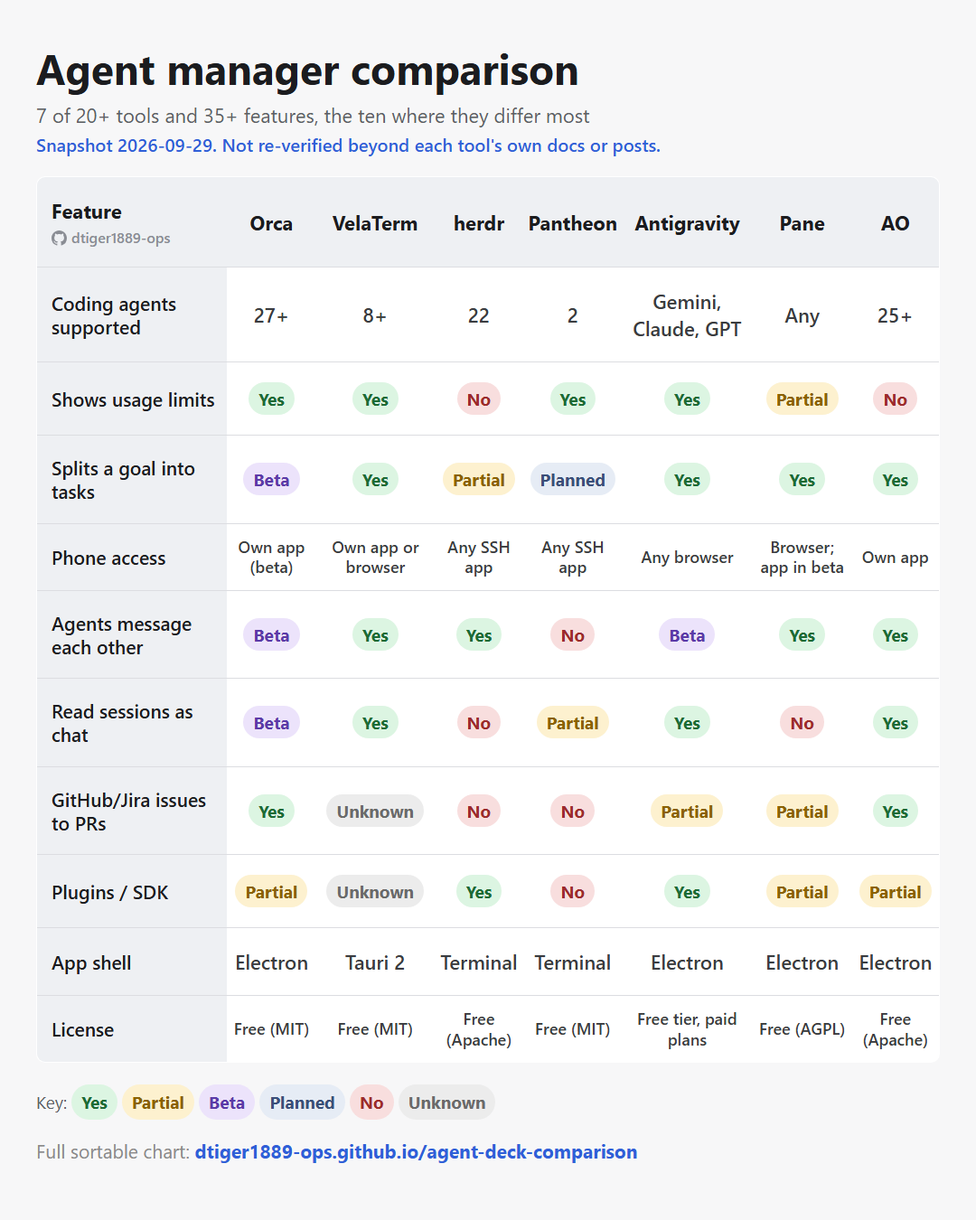
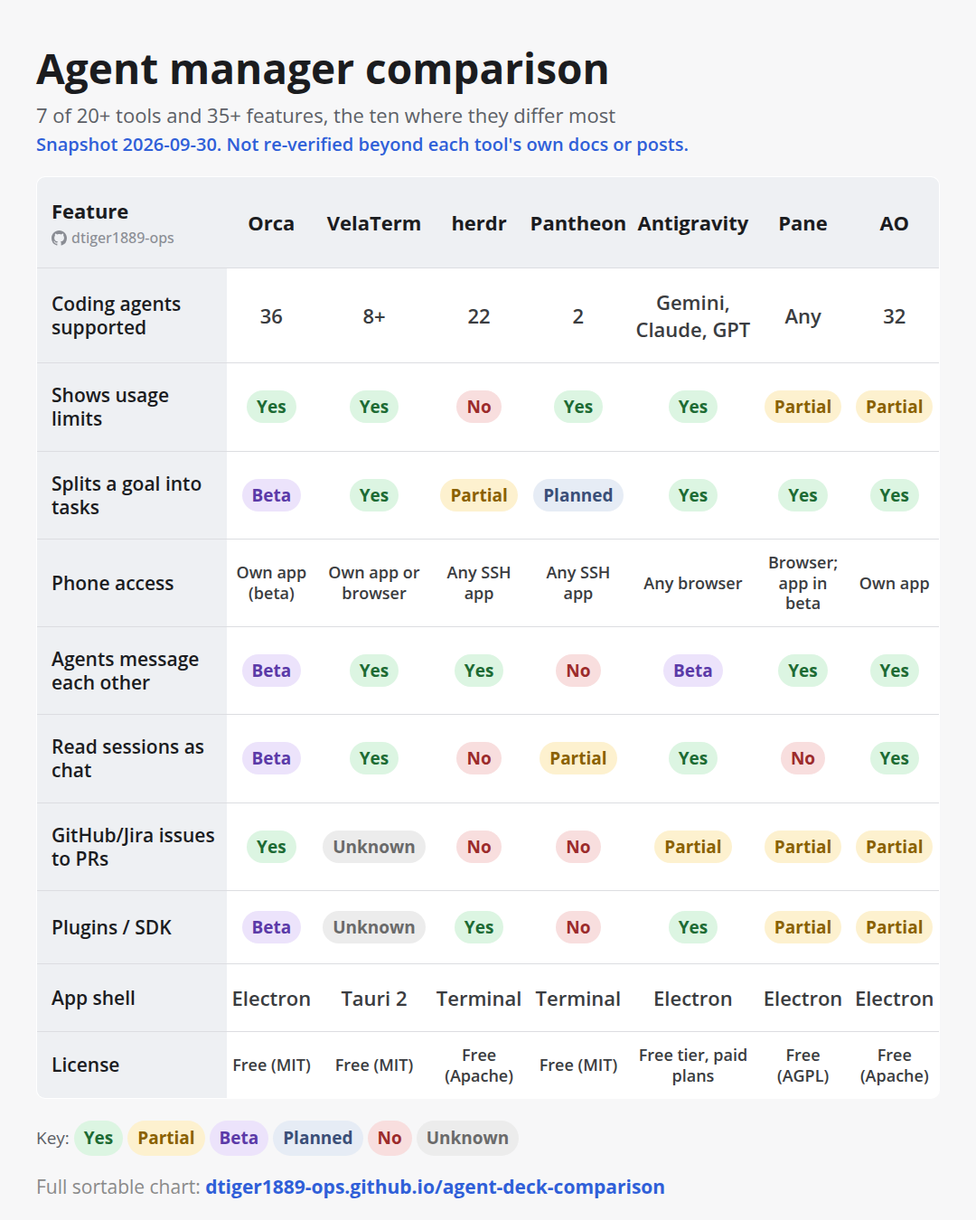
Re-render the share images and page screenshot from the 2026-09-30 data
Both 1080x1350 images and the link-preview screenshot now match the refreshed
cells: agent counts (Orca 36, Paseo 41, Kepler 9 plus any ACP agent, AO 32),
Kepler's Electron shell, and the marks that moved (Kepler shows usage limits,
AO's usage and issue-to-PR rows are Partial, several No cells are now Not
documented). Image 1 keeps its short Not doc. badge so seven columns fit.

diff --git a/assets/linkedin.html b/assets/linkedin.html
@@ -14,8 +14,8 @@
   table { border-collapse: collapse; width: 100%; background: #fff; border: 1px solid #dcdde1; border-radius: 10px; overflow: hidden; }
   th, td { padding: 22px 4px; font-size: 22px; text-align: center; border-bottom: 1px solid #dcdde1; }
   th { background: #eef0f3; font-size: 22px; }
-  tbody th { text-align: left; font-size: 21px; font-weight: 600; white-space: nowrap; }
-  td:first-child, th:first-child { text-align: left; padding-left: 16px; width: 260px; }
+  tbody th { text-align: left; font-size: 21px; font-weight: 600; line-height: 1.25; }
+  td:first-child, th:first-child { text-align: left; padding-left: 16px; width: 210px; }
   .b { white-space: nowrap; display: inline-block; padding: 5px 11px; border-radius: 999px; font-size: 19px; font-weight: 700; }
   td.plain { font-size: 22px; color: #3a3c40; font-weight: 600; }
   td.plain.small { font-size: 18px; line-height: 1.25; padding: 14px 4px; }
@@ -25,13 +25,13 @@
   .footer { margin-top: 18px; font-size: 21px; line-height: 1.5; color: #8a8a8a; }
 </style></head>
 <body>
-  <h1>Agent-manager comparison</h1>
+  <h1>Agent manager comparison</h1>
   <p class="sub">Seven AI coding-agent managers, ten features that matter most</p>
-  <p class="snap">Snapshot 2026-09-28 &middot; not re-verified beyond each tool's own docs/posts</p>
+  <p class="snap">Snapshot 2026-09-30. Not re-verified beyond each tool's own docs or posts.</p>
   <table>
     <thead><tr><th>Feature<span class="wm"><svg class="gh" viewBox="0 0 16 16" width="17" height="17" aria-hidden="true"><path fill="currentColor" d="M8 0c4.42 0 8 3.58 8 8a8.013 8.013 0 0 1-5.45 7.59c-.4.08-.55-.17-.55-.38 0-.27.01-1.13.01-2.2 0-.75-.25-1.23-.54-1.48 1.78-.2 3.65-.88 3.65-3.95 0-.88-.31-1.59-.82-2.15.08-.2.36-1.02-.08-2.12 0 0-.67-.22-2.2.82-.64-.18-1.32-.27-2-.27-.68 0-1.36.09-2 .27-1.53-1.03-2.2-.82-2.2-.82-.44 1.1-.16 1.92-.08 2.12-.51.56-.82 1.28-.82 2.15 0 3.06 1.86 3.75 3.64 3.95-.23.2-.44.55-.51 1.07-.46.21-1.61.55-2.33-.66-.15-.24-.6-.83-1.23-.82-.67.01-.27.38.01.53.34.19.73.9.82 1.13.16.45.68 1.31 2.69.94 0 .67.01 1.3.01 1.49 0 .21-.15.45-.55.37A7.995 7.995 0 0 1 0 8c0-4.42 3.58-8 8-8Z"/></svg>dtiger1889-ops</span></th><th>Orca</th><th>VelaTerm</th><th>herdr</th><th>Pantheon</th><th>Paseo</th><th>Kepler</th><th>AO</th></tr></thead>
-    <tbody><tr><th>Coding agents supported</th><td class="plain">27+</td><td class="plain">8+</td><td class="plain">22</td><td class="plain">2</td><td class="plain">~39</td><td class="plain">Any (claimed)</td><td class="plain">25+</td></tr><tr><th>App shell</th><td class="plain">Electron</td><td class="plain">Tauri 2</td><td class="plain">Terminal UI</td><td class="plain">Terminal UI</td><td class="plain">Electron</td><td class="plain">Unknown</td><td class="plain">Electron</td></tr><tr><th>Shows usage limits</th><td><span class="b" style="background:#dcf5e2;color:#1d6b34">Yes</span></td><td><span class="b" style="background:#dcf5e2;color:#1d6b34">Yes</span></td><td><span class="b" style="background:#f8dede;color:#9c2b2b">No</span></td><td><span class="b" style="background:#dcf5e2;color:#1d6b34">Yes</span></td><td><span class="b" style="background:#fdf1cf;color:#8a6100">Partial</span></td><td><span class="b" style="background:#f8dede;color:#9c2b2b">No</span></td><td><span class="b" style="background:#f8dede;color:#9c2b2b">No</span></td></tr><tr><th>Predicts limit hits</th><td><span class="b" style="background:#f8dede;color:#9c2b2b">No</span></td><td><span class="b" style="background:#ffffff;color:#6a6a6a;border:2px dashed #9a9a9a;padding:3px 7px">Not documented</span></td><td><span class="b" style="background:#ffffff;color:#6a6a6a;border:2px dashed #9a9a9a;padding:3px 7px">Not documented</span></td><td><span class="b" style="background:#fdf1cf;color:#8a6100">Partial</span></td><td><span class="b" style="background:#f8dede;color:#9c2b2b">No</span></td><td><span class="b" style="background:#f8dede;color:#9c2b2b">No</span></td><td><span class="b" style="background:#f8dede;color:#9c2b2b">No</span></td></tr><tr><th>Pause/resume at limits</th><td><span class="b" style="background:#f8dede;color:#9c2b2b">No</span></td><td><span class="b" style="background:#ffffff;color:#6a6a6a;border:2px dashed #9a9a9a;padding:3px 7px">Not documented</span></td><td><span class="b" style="background:#ffffff;color:#6a6a6a;border:2px dashed #9a9a9a;padding:3px 7px">Not documented</span></td><td><span class="b" style="background:#fdf1cf;color:#8a6100">Partial</span></td><td><span class="b" style="background:#f8dede;color:#9c2b2b">No</span></td><td><span class="b" style="background:#f8dede;color:#9c2b2b">No</span></td><td><span class="b" style="background:#f8dede;color:#9c2b2b">No</span></td></tr><tr><th>Tasks from notes vault</th><td><span class="b" style="background:#f8dede;color:#9c2b2b">No</span></td><td><span class="b" style="background:#f8dede;color:#9c2b2b">No</span></td><td><span class="b" style="background:#f8dede;color:#9c2b2b">No</span></td><td><span class="b" style="background:#dcf5e2;color:#1d6b34">Yes</span></td><td><span class="b" style="background:#f8dede;color:#9c2b2b">No</span></td><td><span class="b" style="background:#f8dede;color:#9c2b2b">No</span></td><td><span class="b" style="background:#f8dede;color:#9c2b2b">No</span></td></tr><tr><th>Manages worktrees</th><td><span class="b" style="background:#dcf5e2;color:#1d6b34">Yes</span></td><td><span class="b" style="background:#dcf5e2;color:#1d6b34">Yes</span></td><td><span class="b" style="background:#dcf5e2;color:#1d6b34">Yes</span></td><td><span class="b" style="background:#f8dede;color:#9c2b2b">No</span></td><td><span class="b" style="background:#dcf5e2;color:#1d6b34">Yes</span></td><td><span class="b" style="background:#dcf5e2;color:#1d6b34">Yes</span></td><td><span class="b" style="background:#dcf5e2;color:#1d6b34">Yes</span></td></tr><tr><th>Splits the work</th><td><span class="b" style="background:#ece3fb;color:#5b3aa8">Beta</span></td><td><span class="b" style="background:#dcf5e2;color:#1d6b34">Yes</span></td><td><span class="b" style="background:#fdf1cf;color:#8a6100">Partial</span></td><td><span class="b" style="background:#e6ecf5;color:#3a4f78">Planned</span></td><td><span class="b" style="background:#dcf5e2;color:#1d6b34">Yes</span></td><td><span class="b" style="background:#f2f2f2;color:#8a8a8a">N/A</span></td><td><span class="b" style="background:#dcf5e2;color:#1d6b34">Yes</span></td></tr><tr><th>Phone app</th><td><span class="b" style="background:#ece3fb;color:#5b3aa8">Beta</span></td><td><span class="b" style="background:#dcf5e2;color:#1d6b34">Yes</span></td><td><span class="b" style="background:#f8dede;color:#9c2b2b">No</span></td><td><span class="b" style="background:#f8dede;color:#9c2b2b">No</span></td><td><span class="b" style="background:#dcf5e2;color:#1d6b34">Yes</span></td><td><span class="b" style="background:#fdf1cf;color:#8a6100">Partial</span></td><td><span class="b" style="background:#dcf5e2;color:#1d6b34">Yes</span></td></tr><tr><th>Runs in your terminal</th><td><span class="b" style="background:#f8dede;color:#9c2b2b">No</span></td><td><span class="b" style="background:#f8dede;color:#9c2b2b">No</span></td><td><span class="b" style="background:#dcf5e2;color:#1d6b34">Yes</span></td><td><span class="b" style="background:#dcf5e2;color:#1d6b34">Yes</span></td><td><span class="b" style="background:#f8dede;color:#9c2b2b">No</span></td><td><span class="b" style="background:#f8dede;color:#9c2b2b">No</span></td><td><span class="b" style="background:#f8dede;color:#9c2b2b">No</span></td></tr></tbody>
+    <tbody><tr><th>Coding agents supported</th><td class="plain">36</td><td class="plain">8+</td><td class="plain">22</td><td class="plain">2</td><td class="plain">41</td><td class="plain">9 + any ACP</td><td class="plain">32</td></tr><tr><th>App shell</th><td class="plain">Electron</td><td class="plain">Tauri 2</td><td class="plain">Terminal</td><td class="plain">Terminal</td><td class="plain">Electron</td><td class="plain">Electron</td><td class="plain">Electron</td></tr><tr><th>Shows usage limits</th><td><span class="b" style="background:#dcf5e2;color:#1d6b34">Yes</span></td><td><span class="b" style="background:#dcf5e2;color:#1d6b34">Yes</span></td><td><span class="b" style="background:#f8dede;color:#9c2b2b">No</span></td><td><span class="b" style="background:#dcf5e2;color:#1d6b34">Yes</span></td><td><span class="b" style="background:#dcf5e2;color:#1d6b34">Yes</span></td><td><span class="b" style="background:#dcf5e2;color:#1d6b34">Yes</span></td><td><span class="b" style="background:#fdf1cf;color:#8a6100">Partial</span></td></tr><tr><th>Predicts limit hits</th><td><span class="b" style="background:#ffffff;color:#6a6a6a;border:2px dashed #9a9a9a;padding:3px 7px">Not doc.</span></td><td><span class="b" style="background:#ffffff;color:#6a6a6a;border:2px dashed #9a9a9a;padding:3px 7px">Not doc.</span></td><td><span class="b" style="background:#ffffff;color:#6a6a6a;border:2px dashed #9a9a9a;padding:3px 7px">Not doc.</span></td><td><span class="b" style="background:#fdf1cf;color:#8a6100">Partial</span></td><td><span class="b" style="background:#ffffff;color:#6a6a6a;border:2px dashed #9a9a9a;padding:3px 7px">Not doc.</span></td><td><span class="b" style="background:#ffffff;color:#6a6a6a;border:2px dashed #9a9a9a;padding:3px 7px">Not doc.</span></td><td><span class="b" style="background:#ffffff;color:#6a6a6a;border:2px dashed #9a9a9a;padding:3px 7px">Not doc.</span></td></tr><tr><th>Pause/resume at limits</th><td><span class="b" style="background:#ffffff;color:#6a6a6a;border:2px dashed #9a9a9a;padding:3px 7px">Not doc.</span></td><td><span class="b" style="background:#ffffff;color:#6a6a6a;border:2px dashed #9a9a9a;padding:3px 7px">Not doc.</span></td><td><span class="b" style="background:#ffffff;color:#6a6a6a;border:2px dashed #9a9a9a;padding:3px 7px">Not doc.</span></td><td><span class="b" style="background:#fdf1cf;color:#8a6100">Partial</span></td><td><span class="b" style="background:#ffffff;color:#6a6a6a;border:2px dashed #9a9a9a;padding:3px 7px">Not doc.</span></td><td><span class="b" style="background:#ffffff;color:#6a6a6a;border:2px dashed #9a9a9a;padding:3px 7px">Not doc.</span></td><td><span class="b" style="background:#ffffff;color:#6a6a6a;border:2px dashed #9a9a9a;padding:3px 7px">Not doc.</span></td></tr><tr><th>Tasks from notes vault</th><td><span class="b" style="background:#f8dede;color:#9c2b2b">No</span></td><td><span class="b" style="background:#f8dede;color:#9c2b2b">No</span></td><td><span class="b" style="background:#f8dede;color:#9c2b2b">No</span></td><td><span class="b" style="background:#dcf5e2;color:#1d6b34">Yes</span></td><td><span class="b" style="background:#ffffff;color:#6a6a6a;border:2px dashed #9a9a9a;padding:3px 7px">Not doc.</span></td><td><span class="b" style="background:#ffffff;color:#6a6a6a;border:2px dashed #9a9a9a;padding:3px 7px">Not doc.</span></td><td><span class="b" style="background:#ffffff;color:#6a6a6a;border:2px dashed #9a9a9a;padding:3px 7px">Not doc.</span></td></tr><tr><th>Manages worktrees</th><td><span class="b" style="background:#dcf5e2;color:#1d6b34">Yes</span></td><td><span class="b" style="background:#dcf5e2;color:#1d6b34">Yes</span></td><td><span class="b" style="background:#dcf5e2;color:#1d6b34">Yes</span></td><td><span class="b" style="background:#f8dede;color:#9c2b2b">No</span></td><td><span class="b" style="background:#dcf5e2;color:#1d6b34">Yes</span></td><td><span class="b" style="background:#dcf5e2;color:#1d6b34">Yes</span></td><td><span class="b" style="background:#dcf5e2;color:#1d6b34">Yes</span></td></tr><tr><th>Splits the work</th><td><span class="b" style="background:#ece3fb;color:#5b3aa8">Beta</span></td><td><span class="b" style="background:#dcf5e2;color:#1d6b34">Yes</span></td><td><span class="b" style="background:#fdf1cf;color:#8a6100">Partial</span></td><td><span class="b" style="background:#e6ecf5;color:#3a4f78">Planned</span></td><td><span class="b" style="background:#dcf5e2;color:#1d6b34">Yes</span></td><td><span class="b" style="background:#fdf1cf;color:#8a6100">Partial</span></td><td><span class="b" style="background:#dcf5e2;color:#1d6b34">Yes</span></td></tr><tr><th>Phone app</th><td><span class="b" style="background:#ece3fb;color:#5b3aa8">Beta</span></td><td><span class="b" style="background:#dcf5e2;color:#1d6b34">Yes</span></td><td><span class="b" style="background:#f8dede;color:#9c2b2b">No</span></td><td><span class="b" style="background:#f8dede;color:#9c2b2b">No</span></td><td><span class="b" style="background:#dcf5e2;color:#1d6b34">Yes</span></td><td><span class="b" style="background:#f8dede;color:#9c2b2b">No</span></td><td><span class="b" style="background:#dcf5e2;color:#1d6b34">Yes</span></td></tr><tr><th>Runs in your terminal</th><td><span class="b" style="background:#f8dede;color:#9c2b2b">No</span></td><td><span class="b" style="background:#f8dede;color:#9c2b2b">No</span></td><td><span class="b" style="background:#dcf5e2;color:#1d6b34">Yes</span></td><td><span class="b" style="background:#dcf5e2;color:#1d6b34">Yes</span></td><td><span class="b" style="background:#f8dede;color:#9c2b2b">No</span></td><td><span class="b" style="background:#f8dede;color:#9c2b2b">No</span></td><td><span class="b" style="background:#f8dede;color:#9c2b2b">No</span></td></tr></tbody>
   </table>
-  <p class="key">Key: <span class="b" style="background:#dcf5e2;color:#1d6b34">Yes</span> <span class="b" style="background:#fdf1cf;color:#8a6100">Partial</span> <span class="b" style="background:#ece3fb;color:#5b3aa8">Beta</span> <span class="b" style="background:#e6ecf5;color:#3a4f78">Planned</span> <span class="b" style="background:#f8dede;color:#9c2b2b">No</span> <span class="b" style="background:#ffffff;color:#6a6a6a;border:2px dashed #9a9a9a;padding:3px 7px">Not documented</span> <span class="b" style="background:#ececec;color:#6a6a6a">Unknown</span></p>
+  <p class="key">Key: <span class="b" style="background:#dcf5e2;color:#1d6b34">Yes</span> <span class="b" style="background:#fdf1cf;color:#8a6100">Partial</span> <span class="b" style="background:#ece3fb;color:#5b3aa8">Beta</span> <span class="b" style="background:#e6ecf5;color:#3a4f78">Planned</span> <span class="b" style="background:#f8dede;color:#9c2b2b">No</span> <span class="b" style="background:#ffffff;color:#6a6a6a;border:2px dashed #9a9a9a;padding:3px 7px">Not doc.</span></p>
   <p class="footer">Full sortable chart: <b style="color:#2f5fd8">dtiger1889-ops.github.io/agent-deck-comparison</b></p>
 </body></html>

diff --git a/assets/share-2.html b/assets/share-2.html
@@ -27,10 +27,10 @@
 <body>
   <h1>Agent manager comparison</h1>
   <p class="sub">7 of 20+ tools and 35+ features, the ten where they differ most</p>
-  <p class="snap">Snapshot 2026-09-29. Not re-verified beyond each tool's own docs or posts.</p>
+  <p class="snap">Snapshot 2026-09-30. Not re-verified beyond each tool's own docs or posts.</p>
   <table>
     <thead><tr><th>Feature<span class="wm"><svg class="gh" viewBox="0 0 16 16" width="17" height="17" aria-hidden="true"><path fill="currentColor" d="M8 0c4.42 0 8 3.58 8 8a8.013 8.013 0 0 1-5.45 7.59c-.4.08-.55-.17-.55-.38 0-.27.01-1.13.01-2.2 0-.75-.25-1.23-.54-1.48 1.78-.2 3.65-.88 3.65-3.95 0-.88-.31-1.59-.82-2.15.08-.2.36-1.02-.08-2.12 0 0-.67-.22-2.2.82-.64-.18-1.32-.27-2-.27-.68 0-1.36.09-2 .27-1.53-1.03-2.2-.82-2.2-.82-.44 1.1-.16 1.92-.08 2.12-.51.56-.82 1.28-.82 2.15 0 3.06 1.86 3.75 3.64 3.95-.23.2-.44.55-.51 1.07-.46.21-1.61.55-2.33-.66-.15-.24-.6-.83-1.23-.82-.67.01-.27.38.01.53.34.19.73.9.82 1.13.16.45.68 1.31 2.69.94 0 .67.01 1.3.01 1.49 0 .21-.15.45-.55.37A7.995 7.995 0 0 1 0 8c0-4.42 3.58-8 8-8Z"/></svg>dtiger1889-ops</span></th><th>Orca</th><th>VelaTerm</th><th>herdr</th><th>Pantheon</th><th>Antigravity</th><th>Pane</th><th>AO</th></tr></thead>
-    <tbody><tr><th>Coding agents supported</th><td class="plain">27+</td><td class="plain">8+</td><td class="plain">22</td><td class="plain">2</td><td class="plain">Gemini, Claude, GPT</td><td class="plain">Any</td><td class="plain">25+</td></tr><tr><th>Shows usage limits</th><td><span class="b" style="background:#dcf5e2;color:#1d6b34">Yes</span></td><td><span class="b" style="background:#dcf5e2;color:#1d6b34">Yes</span></td><td><span class="b" style="background:#f8dede;color:#9c2b2b">No</span></td><td><span class="b" style="background:#dcf5e2;color:#1d6b34">Yes</span></td><td><span class="b" style="background:#dcf5e2;color:#1d6b34">Yes</span></td><td><span class="b" style="background:#fdf1cf;color:#8a6100">Partial</span></td><td><span class="b" style="background:#f8dede;color:#9c2b2b">No</span></td></tr><tr><th>Splits a goal into tasks</th><td><span class="b" style="background:#ece3fb;color:#5b3aa8">Beta</span></td><td><span class="b" style="background:#dcf5e2;color:#1d6b34">Yes</span></td><td><span class="b" style="background:#fdf1cf;color:#8a6100">Partial</span></td><td><span class="b" style="background:#e6ecf5;color:#3a4f78">Planned</span></td><td><span class="b" style="background:#dcf5e2;color:#1d6b34">Yes</span></td><td><span class="b" style="background:#dcf5e2;color:#1d6b34">Yes</span></td><td><span class="b" style="background:#dcf5e2;color:#1d6b34">Yes</span></td></tr><tr><th>Phone access</th><td class="plain small">Own app (beta)</td><td class="plain small">Own app or browser</td><td class="plain small">Any SSH app</td><td class="plain small">Any SSH app</td><td class="plain small">Any browser</td><td class="plain small">Browser; app in beta</td><td class="plain small">Own app</td></tr><tr><th>Agents message each other</th><td><span class="b" style="background:#ece3fb;color:#5b3aa8">Beta</span></td><td><span class="b" style="background:#dcf5e2;color:#1d6b34">Yes</span></td><td><span class="b" style="background:#dcf5e2;color:#1d6b34">Yes</span></td><td><span class="b" style="background:#f8dede;color:#9c2b2b">No</span></td><td><span class="b" style="background:#ece3fb;color:#5b3aa8">Beta</span></td><td><span class="b" style="background:#dcf5e2;color:#1d6b34">Yes</span></td><td><span class="b" style="background:#dcf5e2;color:#1d6b34">Yes</span></td></tr><tr><th>Read sessions as chat</th><td><span class="b" style="background:#ece3fb;color:#5b3aa8">Beta</span></td><td><span class="b" style="background:#dcf5e2;color:#1d6b34">Yes</span></td><td><span class="b" style="background:#f8dede;color:#9c2b2b">No</span></td><td><span class="b" style="background:#fdf1cf;color:#8a6100">Partial</span></td><td><span class="b" style="background:#dcf5e2;color:#1d6b34">Yes</span></td><td><span class="b" style="background:#f8dede;color:#9c2b2b">No</span></td><td><span class="b" style="background:#dcf5e2;color:#1d6b34">Yes</span></td></tr><tr><th>GitHub/Jira issues to PRs</th><td><span class="b" style="background:#dcf5e2;color:#1d6b34">Yes</span></td><td><span class="b" style="background:#ececec;color:#6a6a6a">Unknown</span></td><td><span class="b" style="background:#f8dede;color:#9c2b2b">No</span></td><td><span class="b" style="background:#f8dede;color:#9c2b2b">No</span></td><td><span class="b" style="background:#fdf1cf;color:#8a6100">Partial</span></td><td><span class="b" style="background:#fdf1cf;color:#8a6100">Partial</span></td><td><span class="b" style="background:#dcf5e2;color:#1d6b34">Yes</span></td></tr><tr><th>Plugins / SDK</th><td><span class="b" style="background:#fdf1cf;color:#8a6100">Partial</span></td><td><span class="b" style="background:#ececec;color:#6a6a6a">Unknown</span></td><td><span class="b" style="background:#dcf5e2;color:#1d6b34">Yes</span></td><td><span class="b" style="background:#f8dede;color:#9c2b2b">No</span></td><td><span class="b" style="background:#dcf5e2;color:#1d6b34">Yes</span></td><td><span class="b" style="background:#fdf1cf;color:#8a6100">Partial</span></td><td><span class="b" style="background:#fdf1cf;color:#8a6100">Partial</span></td></tr><tr><th>App shell</th><td class="plain">Electron</td><td class="plain">Tauri 2</td><td class="plain">Terminal</td><td class="plain">Terminal</td><td class="plain">Electron</td><td class="plain">Electron</td><td class="plain">Electron</td></tr><tr><th>License</th><td class="plain small">Free (MIT)</td><td class="plain small">Free (MIT)</td><td class="plain small">Free (Apache)</td><td class="plain small">Free (MIT)</td><td class="plain small">Free tier, paid plans</td><td class="plain small">Free (AGPL)</td><td class="plain small">Free (Apache)</td></tr></tbody>
+    <tbody><tr><th>Coding agents supported</th><td class="plain">36</td><td class="plain">8+</td><td class="plain">22</td><td class="plain">2</td><td class="plain">Gemini, Claude, GPT</td><td class="plain">Any</td><td class="plain">32</td></tr><tr><th>Shows usage limits</th><td><span class="b" style="background:#dcf5e2;color:#1d6b34">Yes</span></td><td><span class="b" style="background:#dcf5e2;color:#1d6b34">Yes</span></td><td><span class="b" style="background:#f8dede;color:#9c2b2b">No</span></td><td><span class="b" style="background:#dcf5e2;color:#1d6b34">Yes</span></td><td><span class="b" style="background:#dcf5e2;color:#1d6b34">Yes</span></td><td><span class="b" style="background:#fdf1cf;color:#8a6100">Partial</span></td><td><span class="b" style="background:#fdf1cf;color:#8a6100">Partial</span></td></tr><tr><th>Splits a goal into tasks</th><td><span class="b" style="background:#ece3fb;color:#5b3aa8">Beta</span></td><td><span class="b" style="background:#dcf5e2;color:#1d6b34">Yes</span></td><td><span class="b" style="background:#fdf1cf;color:#8a6100">Partial</span></td><td><span class="b" style="background:#e6ecf5;color:#3a4f78">Planned</span></td><td><span class="b" style="background:#dcf5e2;color:#1d6b34">Yes</span></td><td><span class="b" style="background:#dcf5e2;color:#1d6b34">Yes</span></td><td><span class="b" style="background:#dcf5e2;color:#1d6b34">Yes</span></td></tr><tr><th>Phone access</th><td class="plain small">Own app (beta)</td><td class="plain small">Own app or browser</td><td class="plain small">Any SSH app</td><td class="plain small">Any SSH app</td><td class="plain small">Any browser</td><td class="plain small">Browser; app in beta</td><td class="plain small">Own app</td></tr><tr><th>Agents message each other</th><td><span class="b" style="background:#ece3fb;color:#5b3aa8">Beta</span></td><td><span class="b" style="background:#dcf5e2;color:#1d6b34">Yes</span></td><td><span class="b" style="background:#dcf5e2;color:#1d6b34">Yes</span></td><td><span class="b" style="background:#f8dede;color:#9c2b2b">No</span></td><td><span class="b" style="background:#ece3fb;color:#5b3aa8">Beta</span></td><td><span class="b" style="background:#dcf5e2;color:#1d6b34">Yes</span></td><td><span class="b" style="background:#dcf5e2;color:#1d6b34">Yes</span></td></tr><tr><th>Read sessions as chat</th><td><span class="b" style="background:#ece3fb;color:#5b3aa8">Beta</span></td><td><span class="b" style="background:#dcf5e2;color:#1d6b34">Yes</span></td><td><span class="b" style="background:#f8dede;color:#9c2b2b">No</span></td><td><span class="b" style="background:#fdf1cf;color:#8a6100">Partial</span></td><td><span class="b" style="background:#dcf5e2;color:#1d6b34">Yes</span></td><td><span class="b" style="background:#f8dede;color:#9c2b2b">No</span></td><td><span class="b" style="background:#dcf5e2;color:#1d6b34">Yes</span></td></tr><tr><th>GitHub/Jira issues to PRs</th><td><span class="b" style="background:#dcf5e2;color:#1d6b34">Yes</span></td><td><span class="b" style="background:#ececec;color:#6a6a6a">Unknown</span></td><td><span class="b" style="background:#f8dede;color:#9c2b2b">No</span></td><td><span class="b" style="background:#f8dede;color:#9c2b2b">No</span></td><td><span class="b" style="background:#fdf1cf;color:#8a6100">Partial</span></td><td><span class="b" style="background:#fdf1cf;color:#8a6100">Partial</span></td><td><span class="b" style="background:#fdf1cf;color:#8a6100">Partial</span></td></tr><tr><th>Plugins / SDK</th><td><span class="b" style="background:#ece3fb;color:#5b3aa8">Beta</span></td><td><span class="b" style="background:#ececec;color:#6a6a6a">Unknown</span></td><td><span class="b" style="background:#dcf5e2;color:#1d6b34">Yes</span></td><td><span class="b" style="background:#f8dede;color:#9c2b2b">No</span></td><td><span class="b" style="background:#dcf5e2;color:#1d6b34">Yes</span></td><td><span class="b" style="background:#fdf1cf;color:#8a6100">Partial</span></td><td><span class="b" style="background:#fdf1cf;color:#8a6100">Partial</span></td></tr><tr><th>App shell</th><td class="plain">Electron</td><td class="plain">Tauri 2</td><td class="plain">Terminal</td><td class="plain">Terminal</td><td class="plain">Electron</td><td class="plain">Electron</td><td class="plain">Electron</td></tr><tr><th>License</th><td class="plain small">Free (MIT)</td><td class="plain small">Free (MIT)</td><td class="plain small">Free (Apache)</td><td class="plain small">Free (MIT)</td><td class="plain small">Free tier, paid plans</td><td class="plain small">Free (AGPL)</td><td class="plain small">Free (Apache)</td></tr></tbody>
   </table>
   <p class="key">Key: <span class="b" style="background:#dcf5e2;color:#1d6b34">Yes</span> <span class="b" style="background:#fdf1cf;color:#8a6100">Partial</span> <span class="b" style="background:#ece3fb;color:#5b3aa8">Beta</span> <span class="b" style="background:#e6ecf5;color:#3a4f78">Planned</span> <span class="b" style="background:#f8dede;color:#9c2b2b">No</span> <span class="b" style="background:#ececec;color:#6a6a6a">Unknown</span></p>
   <p class="footer">Full sortable chart: <b style="color:#2f5fd8">dtiger1889-ops.github.io/agent-deck-comparison</b></p>

diff --git a/tools/build_linkedin.py b/tools/build_linkedin.py
@@ -62,7 +62,7 @@ if SET == "2":
 TEXT_ROWS = {
     "phone_access": {
         "Orca": "Own app (beta)", "VelaTerm": "Own app or browser", "herdr": "Any SSH app",
-        "Pantheon": "Any SSH app", "Paseo": "Own app", "GitKraken Kepler": "Own app (limited)",
+        "Pantheon": "Any SSH app", "Paseo": "Own app or browser", "GitKraken Kepler": "Browser (paid plans)",
         "Google Antigravity": "Any browser", "Pane": "Browser; app in beta",
         "Agent Orchestrator (AO)": "Own app",
     },
@@ -73,21 +73,21 @@ TEXT_ROWS = {
     },
     "license_cost": {
         "Orca": "Free (MIT)", "VelaTerm": "Free (MIT)", "herdr": "Free (Apache)", "Pantheon": "Free (MIT)",
-        "Paseo": "Free (Apache)", "GitKraken Kepler": "Paid, free tier", "Agent Orchestrator (AO)": "Free (Apache)",
+        "Paseo": "Free (Apache)", "GitKraken Kepler": "Free in preview", "Agent Orchestrator (AO)": "Free (Apache)",
         "Google Antigravity": "Free tier, paid plans", "Pane": "Free (AGPL)",
     },
 }
 
 SHORT_AGENTS = {
-    "Orca": "27+",
+    "Orca": "36",
     "VelaTerm": "8+",
     "herdr": "22",
     "Pantheon": "2",
-    "Paseo": "~39",
-    "GitKraken Kepler": "Any (claimed)",
+    "Paseo": "41",
+    "GitKraken Kepler": "9 + any ACP",
     "Google Antigravity": "Gemini, Claude, GPT",
     "Pane": "Any",
-    "Agent Orchestrator (AO)": "25+",
+    "Agent Orchestrator (AO)": "32",
 }
 DISPLAY_NAME = {"Agent Orchestrator (AO)": "AO", "GitKraken Kepler": "Kepler", "Google Antigravity": "Antigravity"}
 SHORT_SHELL = {
@@ -96,7 +96,7 @@ SHORT_SHELL = {
     "herdr": "Terminal",
     "Pantheon": "Terminal",
     "Paseo": "Electron",
-    "GitKraken Kepler": "Unknown",
+    "GitKraken Kepler": "Electron",
     "Google Antigravity": "Electron",
     "Pane": "Electron",
     "Agent Orchestrator (AO)": "Electron",
@@ -112,6 +112,10 @@ MARK_STYLE = {
     "unknown": ("#ececec", "#6a6a6a", "Unknown"),
     "n/a": ("#f2f2f2", "#8a8a8a", "N/A"),
 }
+
+if SET == "1":
+    # Seven columns of "Not documented" do not fit at 1080 px; image 1 uses the short form it was approved with.
+    MARK_STYLE["undocumented"] = ("#ffffff", "#6a6a6a", "Not doc.")
 
 tools_by_name = {t["name"]: t for t in DATA["tools"]}
 tools = [tools_by_name[n] for n in TOOL_ORDER]
